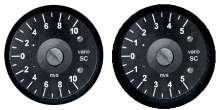
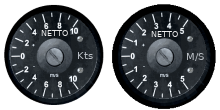
larger compass. units on varios.

diff --git a/README.md b/README.md
@@ -15,6 +15,7 @@
 * DONE get the TE reading from a separate b21_total_energy module, shared with 302 vario
 * DONE implement gust filter
 * DONE implement rotating maccready ring
+* DONE add units to vario face
 
 ### flight model
 
@@ -43,7 +44,7 @@
 * DONE add commands
   - next waypoint
   - previous waypoint
-* DONE bugfix correct use of ground track dataref for heading arrows (Chris)
+* DONE bugfix correct use of ground track dataref for heading arrows (thanks Chris)
 * DONE get waypoint elevation from X-Plane terrain probe
 
 ### 302 vario
@@ -68,6 +69,12 @@
   - volume up
   - volume down
   - volume mute
+
+### 57mm vario
+
+* DONE implement NETTO
+* DONE add units to vario face
+* DONE fade reading to zero as airspeed reduces
 
 ### spoilers (aka speedbrakes) / wheel brake
 
